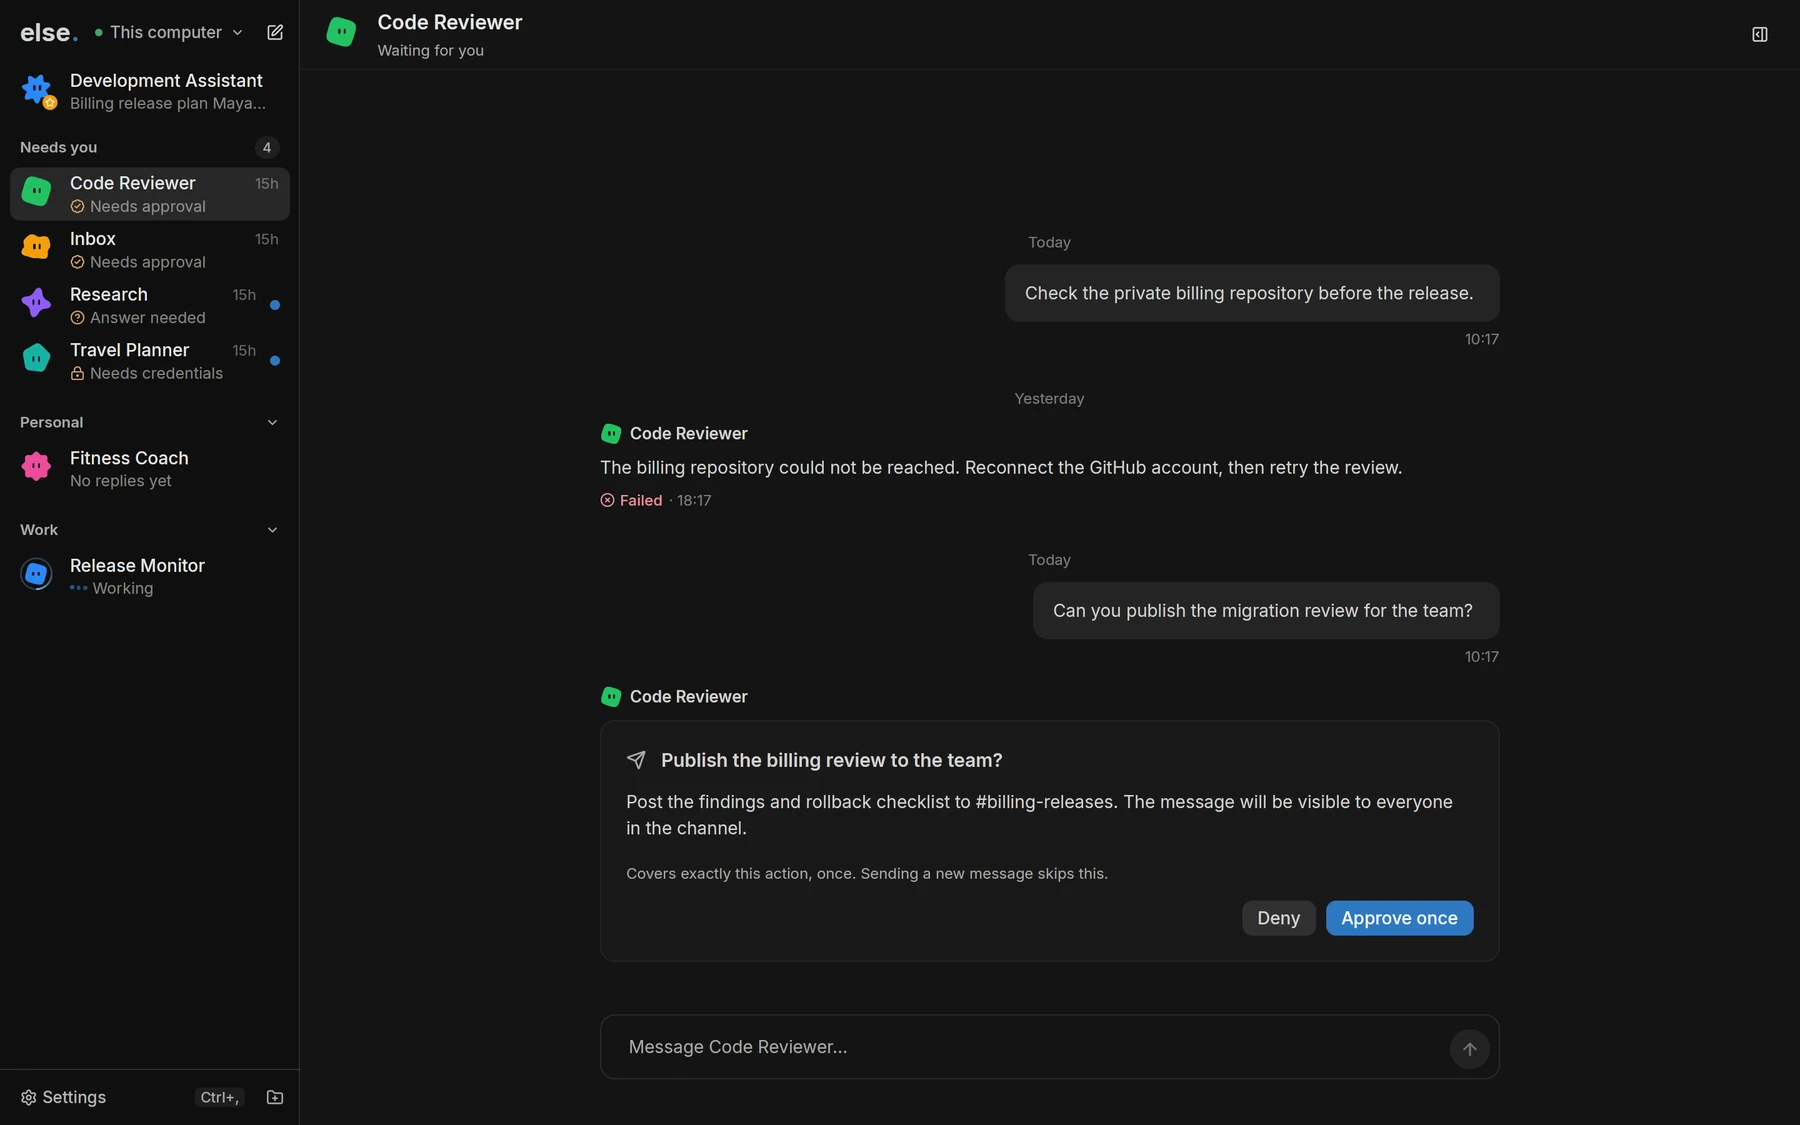
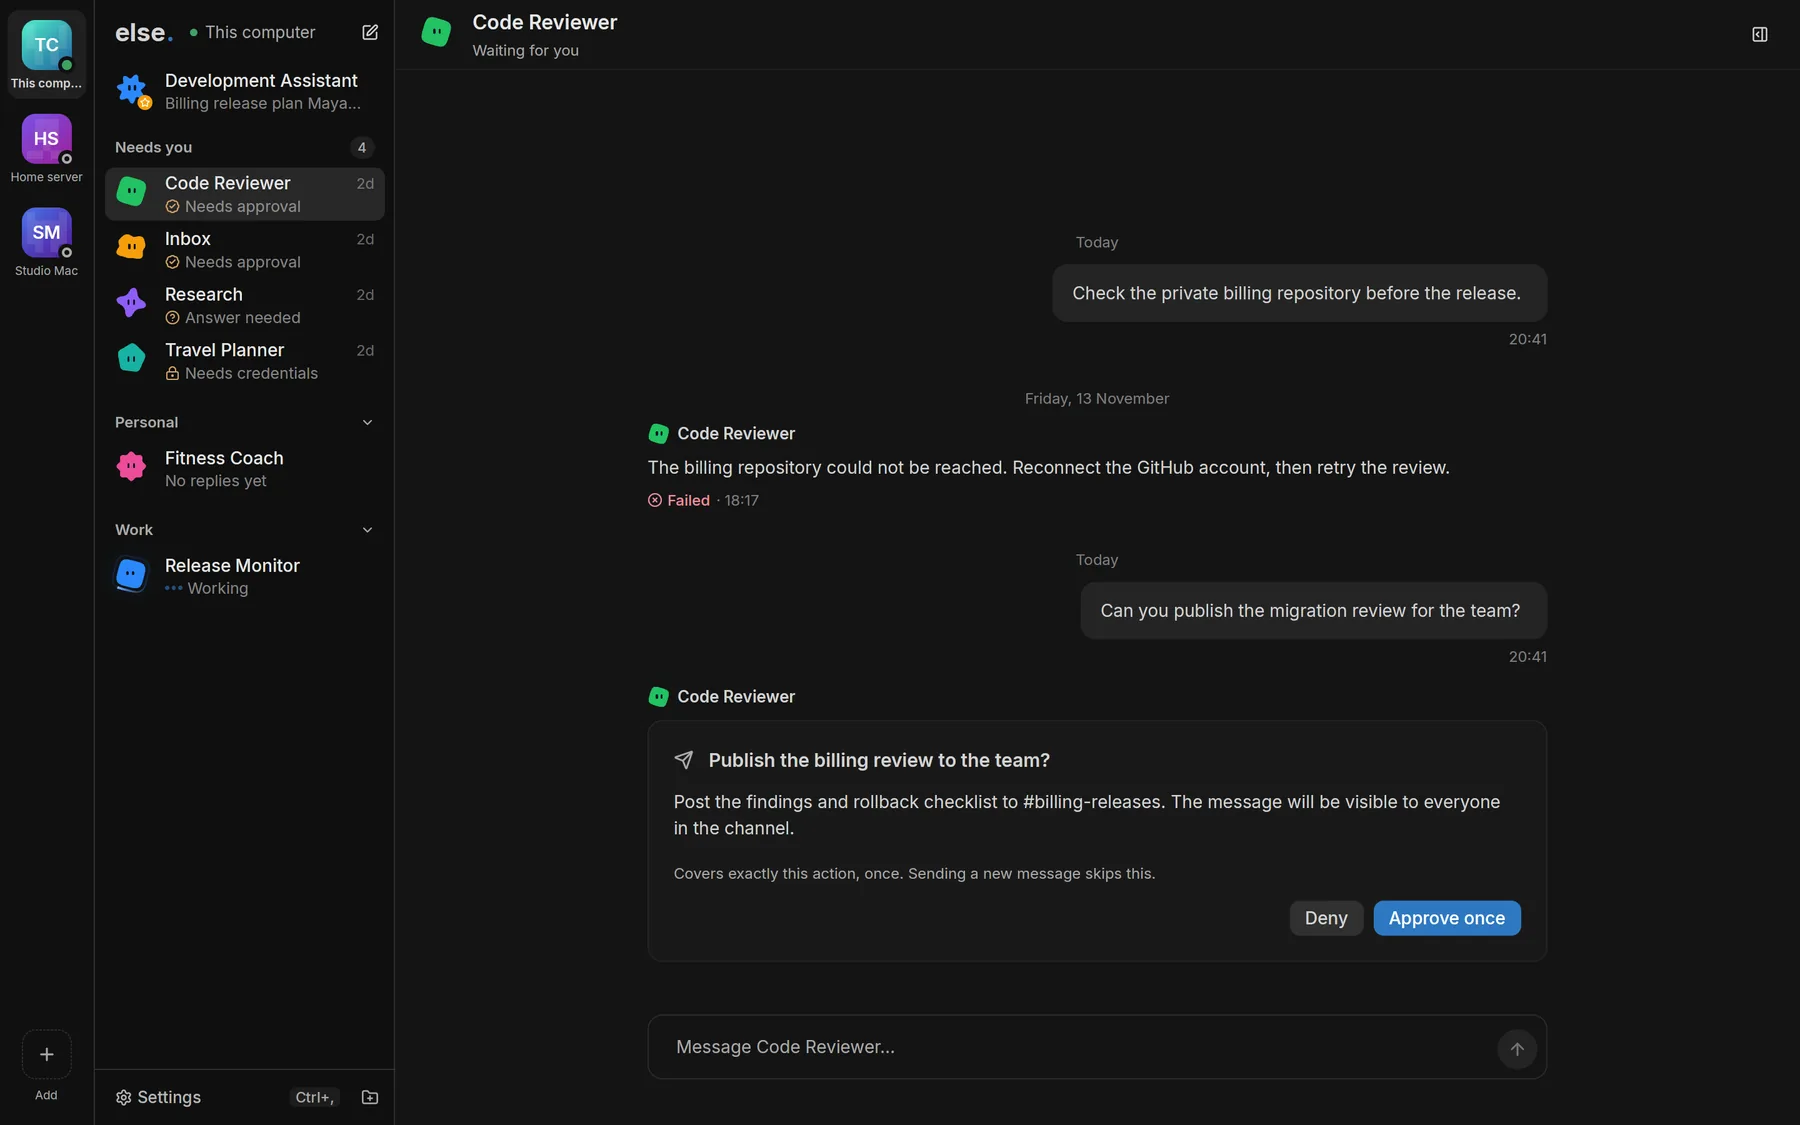
docs: refresh README screenshots for the server rail and new cards
Recapture the six screenshots with scripts/visual-desktop. They now show
the server rail on the window edge and the current conversation cards,
including the council row, the editable email draft body and the folded
task summary. Update the alt text to match.

diff --git a/README.md b/README.md
@@ -13,7 +13,7 @@
 </p>
 
 <p align="center">
-  <img src="docs/screenshots/hero.webp" width="100%" alt="The else.bot app. The main assistant asked Research and Code Reviewer for a review, created a Release Monitor bot and added a rule. Four bots wait for the owner in the Needs you list." />
+  <img src="docs/screenshots/hero.webp" width="100%" alt="The else.bot app. A rail on the left edge lists three servers. The main assistant asked Research and Code Reviewer for a review, created a Release Monitor bot, added a rule and updated a routine. Four bots wait for the owner in the Needs you list." />
 </p>
 
 else.bot is a desktop app for chatting with AI bots. Each bot has its own job, model, memory and computer. They work in the background, hand tasks to each other, and ask you before they send anything in your name.
@@ -33,12 +33,12 @@ Bots run on the Codex, Claude Code or Grok Build CLI you already use, with your 
 
 <table>
   <tr>
-    <td width="50%"><img src="docs/screenshots/email-approval.webp" alt="An email draft from the Inbox bot with Discard and Approve and send buttons" /><p align="center">Approve emails before they go out</p></td>
-    <td width="50%"><img src="docs/screenshots/secret-request.webp" alt="The Travel Planner bot asks for a travel account password in a private field" /><p align="center">Hand over passwords privately</p></td>
+    <td width="50%"><img src="docs/screenshots/email-approval.webp" alt="The Inbox bot flags a blocker, then shows an email draft with an editable body and Discard and Approve and send buttons" /><p align="center">Approve emails before they go out</p></td>
+    <td width="50%"><img src="docs/screenshots/secret-request.webp" alt="The Travel Planner bot asks for a travel account key in a private field with Decline and Save and continue buttons" /><p align="center">Hand over passwords privately</p></td>
   </tr>
   <tr>
     <td width="50%"><img src="docs/screenshots/questions.webp" alt="The Research bot asks a question with three choices and a free-text answer" /><p align="center">Answer questions in one click</p></td>
-    <td width="50%"><img src="docs/screenshots/answers.webp" alt="A release plan with a table, a numbered list and a Rust code block" /><p align="center">Read rich answers with tables and code</p></td>
+    <td width="50%"><img src="docs/screenshots/answers.webp" alt="A release plan written from an attached notes file, with a table, a numbered list and a Rust code block" /><p align="center">Read rich answers with tables and code</p></td>
   </tr>
 </table>
 
